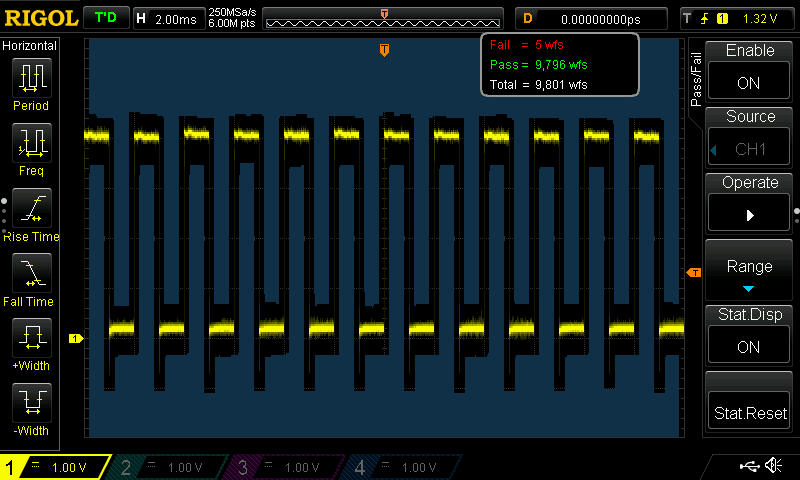
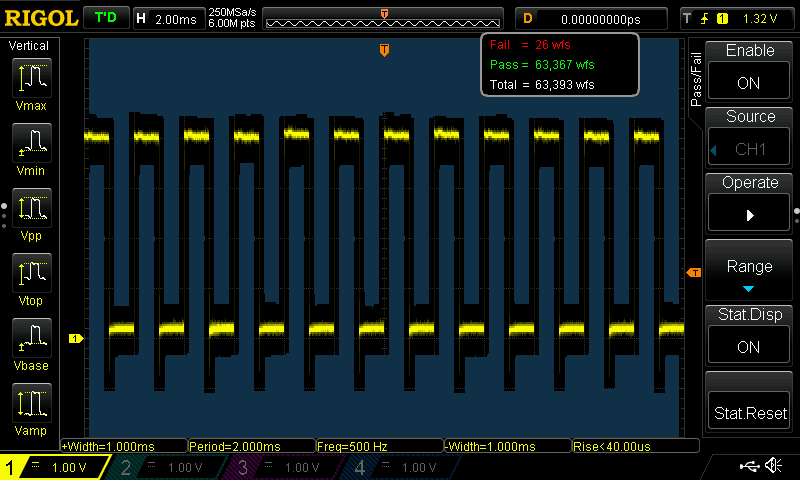
Added 555 test to clockproject

diff --git a/content/projects/personal/clock.md b/content/projects/personal/clock.md
@@ -6,7 +6,7 @@ started: "November 2021"
 finished:
 status: "Waiting for boards"
 client:
-tags: [hardware, clock, KiCAD]
+tags: [hardware, clock, KiCad, 555]
 skills: [logic, KiCAD]
 summary: "A modular clock composed entirely out of discrete logic chips I got secondhand."
 githubLink: "https://github.com/savob/digital_clock"
@@ -698,27 +698,91 @@ of several kilohertz. Over time it gradually started to catch some errors.
 
 <figure>
 <img src="/images/clock-testing-more-waves.png">
-<figcaption>The recorded waveforms from all points on the path, focused on the reset signal portion</figcaption>
+<figcaption>The wave on the ones of minutes being tested at several kHz. Note that there have been some failures caught!</figcaption>
 </figure>
 
 These errors were however much less frequent than I had observed previously when I let the clock run on its own, only once 
-every 2000 waves. With about 24 counts per waveform on screen, this is implying **a glitch once every 48 000 counts/minutes!**
+every 2500 waves. With about 24 counts per waveform on screen, this is implying **a glitch once every 60 000 counts/minutes!**
 This is far from the roughly hourly glitches it was having under observation. So I'm glad I have this baseline. *Perhaps the 
 probes are somehow scaring the system to work?*
 
 Perhaps the glitches are too fast for the oscilloscope to catch at this time base. I'll do some more runs soon.
 
-#### Next Steps
+#### 555 Time(r)!
 
-**Next I need to make a 555 timer circuit, insert it into the clock, and then test and compare.**
+So I went ahead and made a 555 timer circuit for this purpose, a mono-stable 555 with an approximately 50 microsecond pulse 
+length. This should be long enough to register on any chip. I used components I had laying about, I probably could have 
+used a shorter period or smaller capacitor but this should work.
 
-### Alternative Solutions?
+<figure>
+<img src="/images/clock-555-schematic.png">
+<figcaption>Schematic of the 555 timer. Note: I used a 556 to be exact here, but it is just two 555s slapped together.</figcaption>
+</figure>
 
-The only solution I have left up my sleeves if the 555 fails me is to redesign the display circuit to have the counter being 
-incremented receive the signal directly, and put a RC delay for the counter being reset's reset pin. This should make ensure 
-that the signal swings fully.
+One issue I noticed immediately was that it was basically constantly firing off pulses. I had forgotten that the 555 takes 
+in "negative" logic for the trigger, so it is triggered when it the trigger pin is pulled low. This is the inverse of what 
+my reset logic outputs so I had to throw in a basic inverter to handle this. 
 
-## Revisions
+<figure>
+<img src="/images/clock-inverter-schematic.png">
+<figcaption>Basic schematic of the the inverter I added</figcaption>
+</figure>
 
-Need to prototype and validate a solution first!
+Originally I used a 10kΩ resistor to pull up the output but the output charged too slowly so multiple pulses were made, so I 
+reduced it to just 1kΩ. After some more basic tests, my test bread board was ready to get inserted into the system.
+
+<figure>
+<img src="/images/clock-555-bread-board.jpg">
+<figcaption>My 555 timer test circuit on a bread board, with the input inverting MOSFET</figcaption>
+</figure>
+
+I wired the input of the inverter to the usual logic that would reset the primary digit and increment the secondary above it, 
+and then the output to the RP header of that logic board, thus it intercepted and inserted its own reset pulse.
+
+#### Speed Testing the 555
+
+With the 555 timer circuit installed I began feeding the system a controlled reference clock from my function generator. The 
+test started excellently. I turned up the function generator to run a 120kHz base clock and left it running. I checked in on 
+it periodically for any recorded failures.
+
+<figure>
+<img src="/images/clock-555-test-setup.jpg">
+<figcaption>Setup of my 555 test</figcaption>
+</figure>
+
+<figure>
+<img src="/images/clock-555-test-start.png">
+<figcaption>The start of my test with the 555 installed</figcaption>
+</figure>
+
+Amazingly **no failures were detected in the first almost 80 thousand waves, which was 960 000 simulated minutes!** I kept 
+it going and accidentally brushed up against my table which I think created a measurement glitch. 
+
+<figure>
+<img src="/images/clock-555-test-accident.png">
+<figcaption>The start of my test with the 555 installed</figcaption>
+</figure>
+
+In the end though after almost 110 000 waves with *only one* recorded failure, I ended the test. This was equivalent to 
+1 300 596 minutes, or just under 2 and a half years! Even this one failure was likely my fault rather than a genuine circuit 
+issue.
+
+<figure>
+<img src="/images/clock-555-test-finish.png">
+<figcaption>The start of my test with the 555 installed</figcaption>
+</figure>
+
+#### Proper Testing of the 555
+
+Although the results look promising from these accelerated tests, I will conduct a test of just letting the clock run normally. 
+My reason is that when I was doing these accelerated tests, there were significantly less frequent extra counts caught on the 
+original hardware (1 in 2000) than when I had it running off the signal module (roughly 1 in 100). I don't know why this is 
+for certain; perhaps the supply is more stable from the my power supply than my computer's USB port, or maybe the probes 
+affect the board slightly and it works better as a result. Anyways, I want to repeat my original, authentic use case test to 
+have a proper verification. Since I only have the 555 timer for the ones of minutes digit, I will disregard an glitches on 
+the ones of hours.
+
+## Revision
+
+Looks like the 555 will be part of the design, we shall see soon enough.
 
